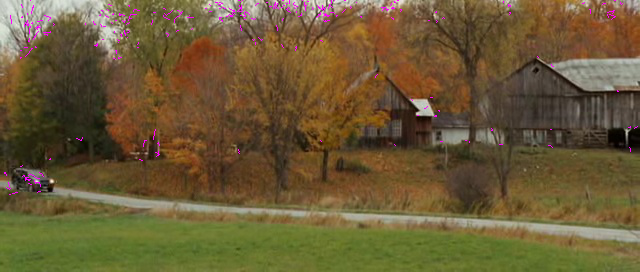
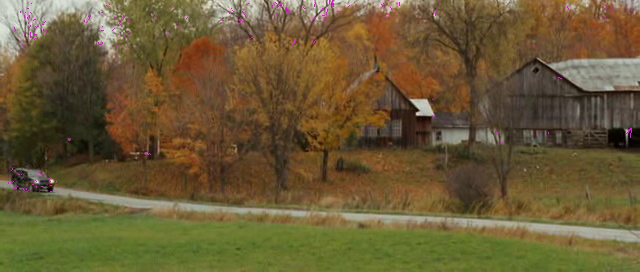
refactoring code using eigen

diff --git a/lib.hpp b/lib.hpp
@@ -31,6 +31,8 @@ public:
 		// Initializing variables
 		width  = images[0].width();
 		height = images[0].height();
+
+		const unsigned char pink [] = { 255,0,255 };
 		
 		MatrixXd ix(width, height);
 		MatrixXd iy(width, height);
@@ -40,8 +42,18 @@ public:
 		int numberOfFrames = images.size() - 1;
 		images[0].save("images/output/Segments/piramide.png", 0);
 
-		for (int frame = 0; frame < 1; frame++)
-		// for (int frame = 0; frame < numberOfFrames; frame++)
+		ChosenPoint ** points = new ChosenPoint*[width];
+		for (int i = 0; i < width; i++)
+		{
+			points[i] = new ChosenPoint[height];
+			for (int j = 0; j < height; j++)
+			{
+				points[i][j].setPoint(i, j, false);
+				points[i][j].setNumberOfFrames(numberOfFrames);
+			}
+		}
+
+		for (int frame = 0; frame < numberOfFrames; frame++)
 		{
 			// DO THE MAGIC!
 
@@ -67,15 +79,107 @@ public:
 				calculateIxAndIy(image1, from, to, ix, iy);
 				calculateIt(image1, image2, from, to, flow, it);
 
-				// maxMinEigenValue = 0.0;
 				calculateMinEigenValue(ix, it, iy, minEigenValue);
+
+				for (int y = 1; y < height - 1; y++)
+				{
+					for (int x = 1; x < width - 1; x++)
+					{
+						// Verify if point is already inside array
+						if (minEigenValue(x, y) > 0.0)
+						{
+							points[x][y].setPoint(points[x][y].getPoint().x, points[x][y].getPoint().y, true);
+						}
+						else
+						{
+							points[x][y].setPoint(points[x][y].getPoint().x, points[x][y].getPoint().y, false);	
+						}
+					}
+				}
 			}
 
 			for (int level = pyramidSize - 1; level >= 0; level--)
 			{
 				// Calculate flow
+				for (int y = 1; y < height - 1; y++)
+				{
+					for (int x = 1; x < width - 1; x++)
+					{
+						if (!points[x][y].getPoint().isValid)
+						{
+							continue;
+						}
+
+						double auxX = (double) points[x][y].getPoint().x / pow (2, level);
+						double auxY = (double) points[x][y].getPoint().y / pow (2, level);
+						
+						point interpolatedPoint = bilinearInterpolation(auxX, auxY);
+						int xOnLevel            = interpolatedPoint.x;
+						int yOnLevel            = interpolatedPoint.y;
+
+						// Verify if pixel is outside image
+						if (xOnLevel == 0 || xOnLevel == (image1pyramids[level].width() - 1) || yOnLevel == 0 || yOnLevel == (image1pyramids[level].height() - 1))
+						{
+							points[x][y].updateFlow(0.0, 0.0, frame);
+							points[x][y].setPoint(x, y, false);
+							continue;
+						}
+
+						point from, to, flow;
+						from.x = xOnLevel - 1;
+						from.y = yOnLevel - 1;
+						to.x   = xOnLevel + 1;
+						to.y   = yOnLevel + 1;
+						flow.x = 2 * points[x][y].getFlow()[frame].x;
+						flow.y = 2 * points[x][y].getFlow()[frame].y;
+
+						calculateIxAndIy(image1pyramids[level], from, to, ix, iy);
+						calculateIt(image1pyramids[level], image2pyramids[level], from, to, flow, it);
+
+						MatrixXd a = calculateA(ix, iy, xOnLevel, yOnLevel);
+						MatrixXd b = calculateB(it, xOnLevel, yOnLevel);
+
+						MatrixXd aT = a.transpose();
+
+						Matrix<double, 2, 1> v = (aT * a).inverse() * aT * b;
+						if (v.rows() == 2 && v.cols() == 1)
+						{
+							// std::cout << v(0,0) << "," << v(1,0) << std::endl;
+							// points[x][y].setFlow(finalX, finalY, frame);
+							points[x][y].setFlow(v(0,0), v(1,0), frame);
+						}
+						else
+						{
+							points[x][y].updateFlow(0.0, 0.0, frame);
+							points[x][y].setPoint(points[x][y].getPoint().x, points[x][y].getPoint().y, false);
+						}
+					}
+				}
 			}
+
+			// Draw
+			for (int y = 1; y < height - 1; y++)
+			{
+				for (int x = 1; x < width - 1; x++)
+				{
+					if (points[x][y].getPoint().isValid)
+					{
+						// bilinear interpolation
+						point finalPoint = bilinearInterpolation(points[x][y].getPoint().x + points[x][y].getFlow()[frame].x, points[x][y].getPoint().y + points[x][y].getFlow()[frame].y);
+						image2.draw_line(points[x][y].getPoint().x, points[x][y].getPoint().y, finalPoint.x, finalPoint.y, pink);
+						points[x][y].setPoint(finalPoint.x, finalPoint.y, true);
+					}
+				}
+			}
+			// image2.display();
+			image2.save("images/output/Segments/piramide.png", frame + 1);
 		}
+
+		for (int i = 0; i < height; i++)
+		{
+			delete [] points[i];
+		}
+		delete [] points;
 	}
 
 	void calculateIxAndIy (CImg<double> image, point from, point to, MatrixXd &ix, MatrixXd &iy)
@@ -104,13 +208,12 @@ public:
 		{
 			for (int y = from.y; y <= to.y; y++)
 			{
-				int finalX = x + flow.x;
-				int finalY = y + flow.y;
+				double finalX = x + flow.x;
+				double finalY = y + flow.y;
 
 				if ((finalX < 0) || (finalX >= width) || (finalY < 0) || (finalY >= height))
 				{
-					// point is outside image. 
-					// Decide what to do
+					// points[x][y].setPoint(x, y, false); // ?
 					it(x,y) = 0.0; // Is this correct?
 					continue;
 				}
@@ -122,8 +225,9 @@ public:
 		}
 	}
 
-	void calculateMinEigenValue (MatrixXd &ix, MatrixXd &iy, MatrixXd &it, MatrixXd &minEigenValue)
+	void calculateMinEigenValue (MatrixXd &ix, MatrixXd &iy, MatrixXd &it, MatrixXd &minEigenValues)
 	{
+		// maxMinEigenValue = 0.0;
 		for (int x = 1; x < width - 1; x++)
 		{
 			for (int y = 1; y < height - 1; y++)
@@ -132,33 +236,47 @@ public:
 				MatrixXd b = calculateB(it, x, y);
 
 				MatrixXd aTa = a.transpose() * a;
-				// EigenSolver<MatrixXd> es(aTa);
 				double lambda0 = getMinEigenValue2x2(aTa(0,0), aTa(0,1), aTa(1,0), aTa(1,1));
-				if (lambda0 > 0)
+				if (lambda0 > 0.0)
 				{
 					minEigenValues(x,y) = lambda0;
 					if (lambda0 > maxMinEigenValue)
 					{
 						maxMinEigenValue = lambda0;
-					}	
-				}
-
-				// std::cout << es.eigenvalues() << std::endl;
-				// double lambda0 = es.eigenvalues();
+					}
+				}				
 			}
 		}
 
 		// THRESHOLD
+		double threshold = 0.1*maxMinEigenValue;
+		for (int y = 1; y < height - 1; y++)
+		{
+			for (int x = 1; x < width - 1; x++)
+			{
+				if (minEigenValues(x,y) < threshold)
+				{
+					minEigenValues(x,y) = 0.0;
+				}
+			}
+		}
 
 		// CLEANING MINEIGENVALUE
+		for (int x = 1; x < width - 1; x++)
+		{
+			for (int y = 1; y < height - 1; y++)
+			{
+				reducingAmountOfPointsToTrack (x, y, minEigenValues);
+			}
+		}
 	}
 
-	double getMinEigenValue2x2(double& matA, double& matB, double& matC, double& matD) {
-	    double b = matA+matD;
-	    double c = matA*matD - matB*matC;
+	double getMinEigenValue2x2(double& a00, double& a01, double& a10, double& a11) 
+	{
+	    double b = a00 + a11;
+	    double c = (a00 * a11) - (a01 * a10);
 
-	    //b^2 - 4ac, where a=1.0
-	    const double delta = b*b - 4*c;
+	    const double delta = pow(b, 2) - (4 * c);
 	    if (delta < 0)
 	        return -1.0;
 
@@ -173,6 +291,26 @@ public:
 	    ev2 *= 0.5;
 
 	    return std::min(ev1, ev2);
+	}
+
+	void reducingAmountOfPointsToTrack (int x, int y, MatrixXd &minEigenValues)
+	{
+		double myEigen[] = {minEigenValues(x-1,y-1), minEigenValues(x-1,y), minEigenValues(x-1,y+1),
+			                minEigenValues(x,y-1),   minEigenValues(x,y),   minEigenValues(x,y+1),
+			                minEigenValues(x+1,y-1), minEigenValues(x+1,y), minEigenValues(x+1,y+1)};
+
+		double * maxValue = std::max_element(myEigen, myEigen+9);
+		std::tuple<int, int> tuples[9] = { std::make_tuple(x-1, y-1), std::make_tuple(x-1, y), std::make_tuple(x-1, y+1),
+								           std::make_tuple(x, y-1), std::make_tuple(x, y), std::make_tuple(x-1, y+1),
+								           std::make_tuple(x+1, y-1), std::make_tuple(x+1, y), std::make_tuple(x+1, y+1)};
+
+		for (int i = 0; i < 9; i++)
+		{
+			if (*maxValue > minEigenValues(std::get<0>(tuples[i]),std::get<1>(tuples[i])) &&  minEigenValues(std::get<0>(tuples[i]),std::get<1>(tuples[i])) > 0.0)
+			{
+				minEigenValues(std::get<0>(tuples[i]),std::get<1>(tuples[i])) = 0.0;
+			}	
+		}		
 	}
 
 	MatrixXd calculateA (MatrixXd &ix, MatrixXd &iy, int x, int y)

diff --git a/point.hpp b/point.hpp
@@ -30,16 +30,11 @@ public:
 		}
 	}
 
-	void setPoint(int x, int y)
+	void setPoint(int x, int y, bool isValid)
 	{
 		this->pt.x = (double) x;
 		this->pt.y = (double) y;
-	}
-
-	void setInitialPoint(int x, int y)
-	{
-		this->initialPoint.x = (double) x;
-		this->initialPoint.y = (double) y;
+		this->pt.isValid = isValid;
 	}
 
 	point getPoint()
@@ -47,17 +42,12 @@ public:
 		return this->pt;
 	}
 
-	point getInitialPoint()
-	{
-		return this->initialPoint;
-	}
-
 	point* getFlow()
 	{
 		return this->flow;
 	}
 
-	void setFlow(double xFlow, double yFlow, int position)
+	void setFlow(double &xFlow, double &yFlow, int &position)
 	{
 		this->flow[position].x = xFlow;
 		this->flow[position].y = yFlow;
@@ -75,7 +65,6 @@ public:
 		this->flow[position].y = yFlow;
 	}
 
-	point initialPoint;
 	point pt;
 	point *flow;
 };

diff --git a/main.cpp b/main.cpp
@@ -3,7 +3,7 @@
 #include <string>
 #include <vector>
 // #include "lucasKanade.hpp"
-#include "harrisdetector.hpp"
+// #include "harrisdetector.hpp"
 #include "lib.hpp"
 
 #define cimg_use_magick
@@ -36,7 +36,6 @@ int main(int argc, char * argv[])
 	tracking.lucasKanade(images);
 
 	// LucasKanade lucasKanade;
-	
 	// lucasKanade.pyramidAlgorithm(images);
 
 	return 0;
